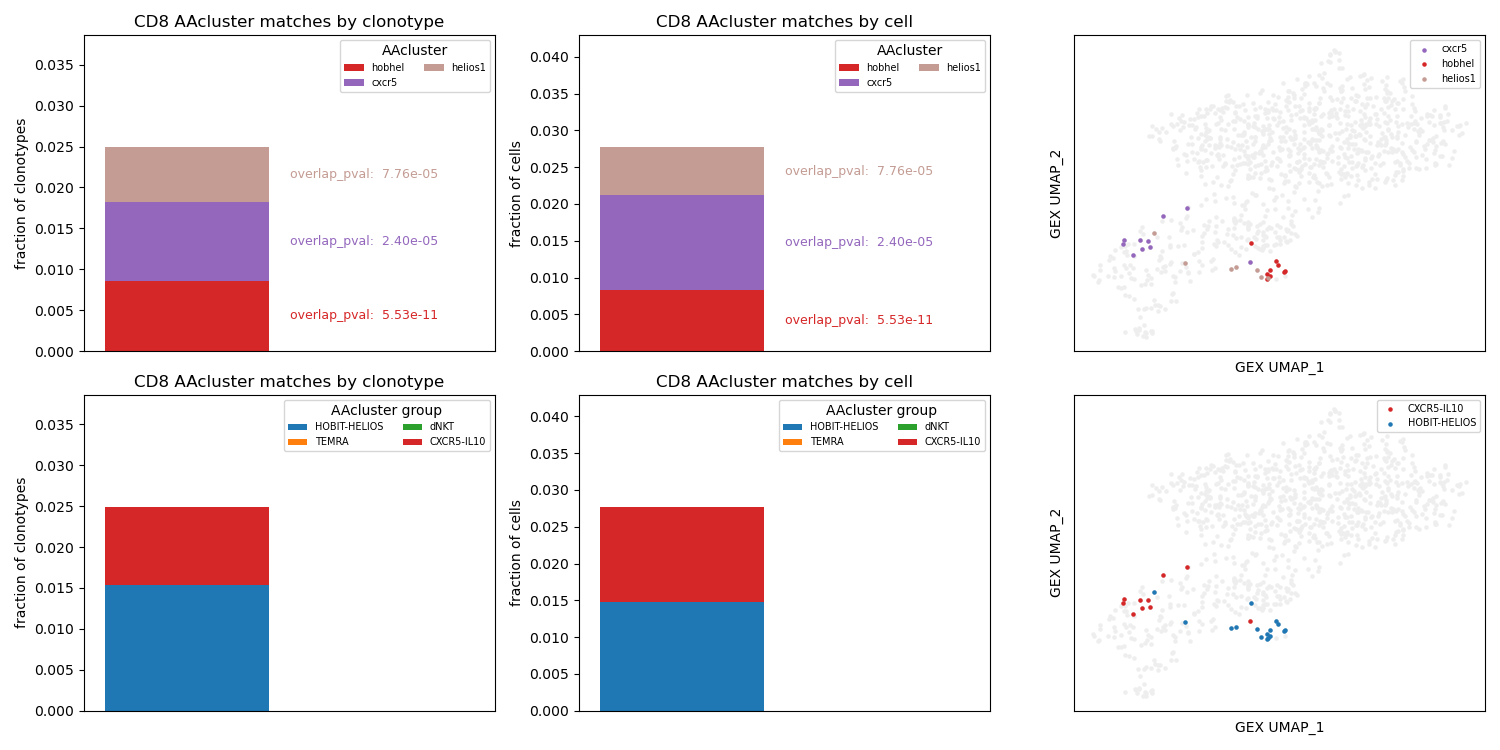
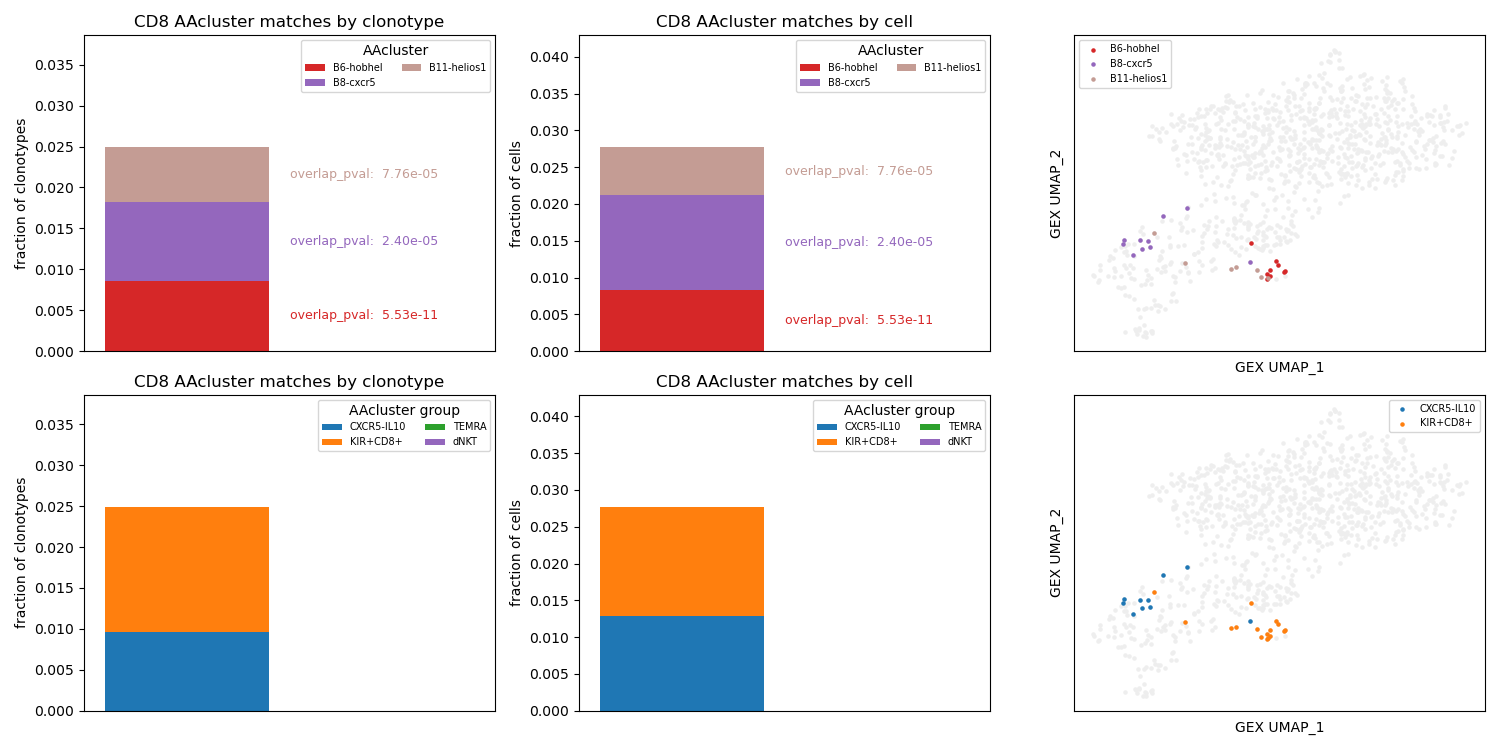
README updates

diff --git a/conga/metaconga_match.py b/conga/metaconga_match.py
@@ -48,6 +48,13 @@ for cd48, groups in aacluster_groups.items():
         for cluster in group:
             aacluster2group[(cd48, cluster)] = ii
 
+# load the mapping from original old gex leiden number to the number used in the paper
+rep_clumps_info = pd.read_table(
+    Path.joinpath(path_to_mc_data, 'good_clumps_v1.tsv'))
+old_mcc_leiden_to_new_mcc_leiden = dict(zip(rep_clumps_info.leiden,
+                                            rep_clumps_info.new_leiden))
+
+            
 ######################################
 
 
@@ -778,9 +785,11 @@ def plot_aacluster_matches(
                 plt.legend(ncols=2, loc='upper right', title='AAcluster group',
                            fontsize=7)
             else:
-                for cluster in counts.keys():
+                for cluster in sorted(counts.keys()):
+                    prefix = 'B' if cd48 == 'cd8' else 'D'
                     plt.bar(x=0, height=0, bottom=0, color=catcolors[cluster],
-                            label=all_aacluster_tags[cd48][cluster])
+                            label = (f'{prefix}{cluster}-'
+                                     f'{all_aacluster_tags[cd48][cluster]}'))
                 plt.legend(ncols=2, loc='upper right', title='AAcluster',
                            fontsize=7)
             plt.xticks([],[])
@@ -815,11 +824,12 @@ def plot_aacluster_matches(
                                 label=label)
             plt.legend(fontsize=7)
         else:
-            total = 0.
-            for c, count in hits.aacluster.value_counts().items():
+            for c in sorted(hits.aacluster.unique()):
                 res = hits[hits.aacluster==c]
+                prefix = 'B' if cd48 == 'cd8' else 'D'
+                label = f'{prefix}{c}-{all_aacluster_tags[cd48][c]}'
                 plt.scatter(res.X_gex_2d_0, res.X_gex_2d_1, color=catcolors[c],
-                            s=5, label=all_aacluster_tags[cd48][c])
+                            s=5, label=label)
             plt.legend(fontsize=7)
 
 
@@ -854,7 +864,8 @@ def plot_aacluster_matches(
         title_fontsize = 10
         cluster = row.aacluster
         ctag = all_aacluster_tags[cd48][cluster]
-        cctag = f'C{cluster}-{ctag}'
+        cluster_prefix = 'B' if cd48 == 'cd8' else 'D'
+        cctag = f'{cluster_prefix}{cluster}-{ctag}'
 
         # read the obs file
         tcr_scores = np.array(obs[f'avg_tcr_bias_score_{cluster}'])
@@ -877,7 +888,8 @@ def plot_aacluster_matches(
                 jaccard = (overlap_mask&mask2).sum() / (overlap_mask|mask2).sum()
                 if jaccard>best_jaccard:
                     best_jaccard = jaccard
-                    best_jaccard_cctag = f'C{c2}-{all_aacluster_tags[cd48][c2]}'
+                    best_jaccard_cctag = (f'{cluster_prefix}{c2}-'
+                                          f'{all_aacluster_tags[cd48][c2]}')
         if best_jaccard:
             print('best_jaccard:', best_jaccard, best_jaccard_cctag)
 
@@ -1097,6 +1109,9 @@ def _process_clump_matches(adata, results):
 
     results.rename(columns = rename, inplace=True)
 
+    results['mcc_fig2_gex_group'] = [
+        f'A{old_mcc_leiden_to_new_mcc_leiden[x]}' for x in results.mcc_leiden]
+
     return results
 
 
@@ -1207,8 +1222,8 @@ def plot_clump_matches(adata, outfile_prefix):
             plotno += 1
             plt.subplot(nrows, ncols, plotno)
 
-            # show all the points in light gray
-            plt.scatter(xy[:,0], xy[:,1], c='#EFEFEF', s=5)
+            # show all the points in very very light gray (--lego batman)
+            plt.scatter(xy[:,0], xy[:,1], c='#F6F6F6', s=5)
 
             cmap, vmin, vmax = None, None, None
             mask = np.ones((res.shape[0],), dtype=bool)
@@ -1275,6 +1290,20 @@ def plot_clump_matches(adata, outfile_prefix):
                     plt.scatter([],[],color=colormap[row.mcc_old_lit_match_pmhc],
                                 label=row.mcc_old_lit_match_pmhc)
                 plt.legend(fontsize=6)
+            elif colortag == 'leiden':
+                for new_gex_group, res2 in res.groupby('mcc_fig2_gex_group'):
+                    plt.scatter([],[],color=leiden_colors[res2.mcc_leiden.iloc[0]],
+                                label=new_gex_group)
+                plt.legend(
+                    fontsize=6,
+                    markerscale=0.5,            # Scale down marker size in the legend
+                    handlelength=1.0,           # Reduce length of the legend handles
+                    handletextpad=0.2,          # Reduce space between handle and label
+                    borderpad=0.2,              # Reduce padding inside the legend box
+                    labelspacing=0.2,           # Reduce vertical space between labels
+                    borderaxespad=0.2,          # Reduce space between legend and axes
+                    ncol=3,                     # Split into multiple columns
+                )
 
             plt.xticks([],[])
             plt.yticks([],[])

diff --git a/README.md b/README.md
@@ -658,17 +658,19 @@ python conga/scripts/setup_10x_for_conga.py --filtered_contig_annotations_csvfil
 python conga/scripts/run_conga.py --match_metaconga_clumps --no_kpca --organism human --clones_file 10k_5p_Human_diseased_PBMC_ALL_Fresh_vdj_t_filtered_contig_annotations_tcrdist_clones.tsv  --gex_data 10k_5p_Human_diseased_PBMC_ALL_Fresh_count_filtered_feature_bc_matrix.h5 --gex_data_type 10x_h5 --outfile_prefix mcc_match_10k_5p
 ```
 
-This image would be generated as part of the CoNGA output and included in the
-"<outfile_prefix>_results_summary.html" file.
+The image below would be generated as one of the CoNGA output PNG files and also
+included in the `<outfile_prefix>_results_summary.html` file.
 
-From these results we might infer that this donor is positive for HLA-A*02:01 and
-HLA-DRB1*07:01, positive for CMV, and had been vaccinated against and/or infected with
-SARS-CoV2 (from the two A0201-YLQ-specific TCRs, green dots in the penultimate row of
-panels).
+From these results we might infer that this donor is positive for HLA-A\*02:01 and
+HLA-DRB1\*07:01, positive for CMV, and has been vaccinated against and/or infected with
+SARS-CoV2 (based on the two A0201-YLQ-specific TCRs, green dots in the penultimate
+row of panels).
 
 ![matching_umaps](_images/mcc_match_10k_5p_metaconga_match_clumps_umaps.png)
 
 ## Metaconga CDR3AA-bias cluster matching (CD8+ clusters): 10k PBMC from healthy donor
+
+Here we look for T cell clonotypes that match 
 
 ```
 # DOWNLOAD FROM:
